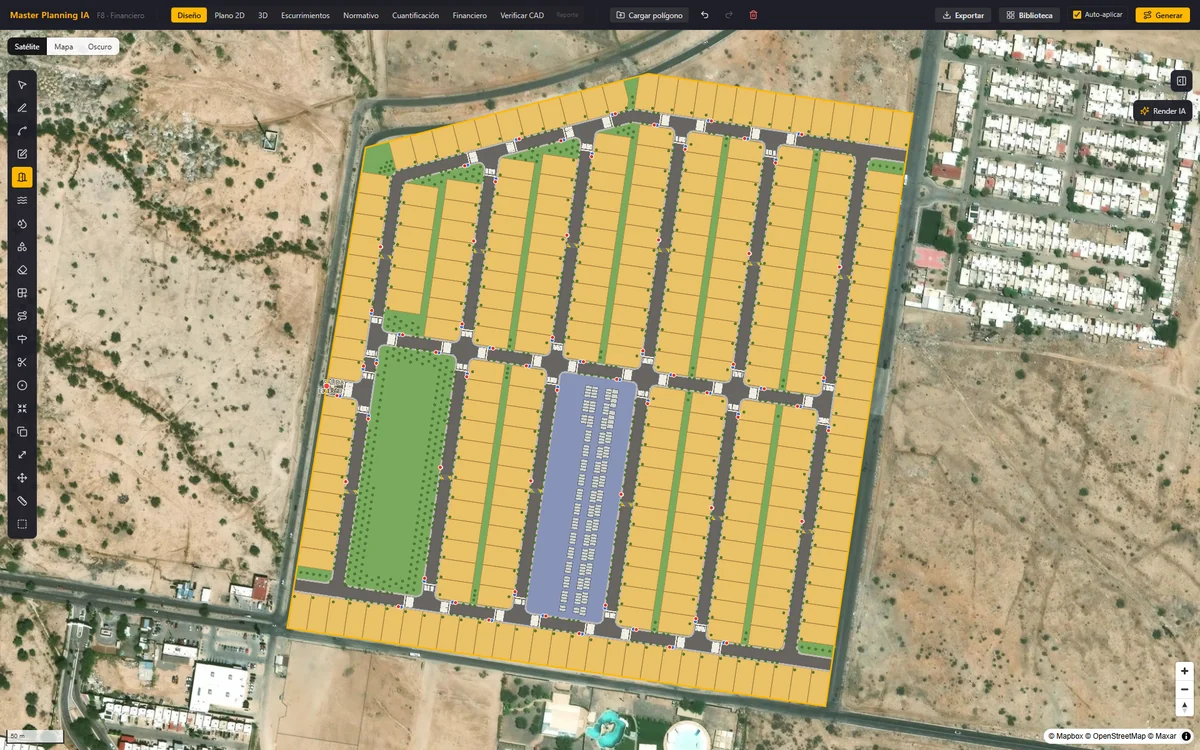
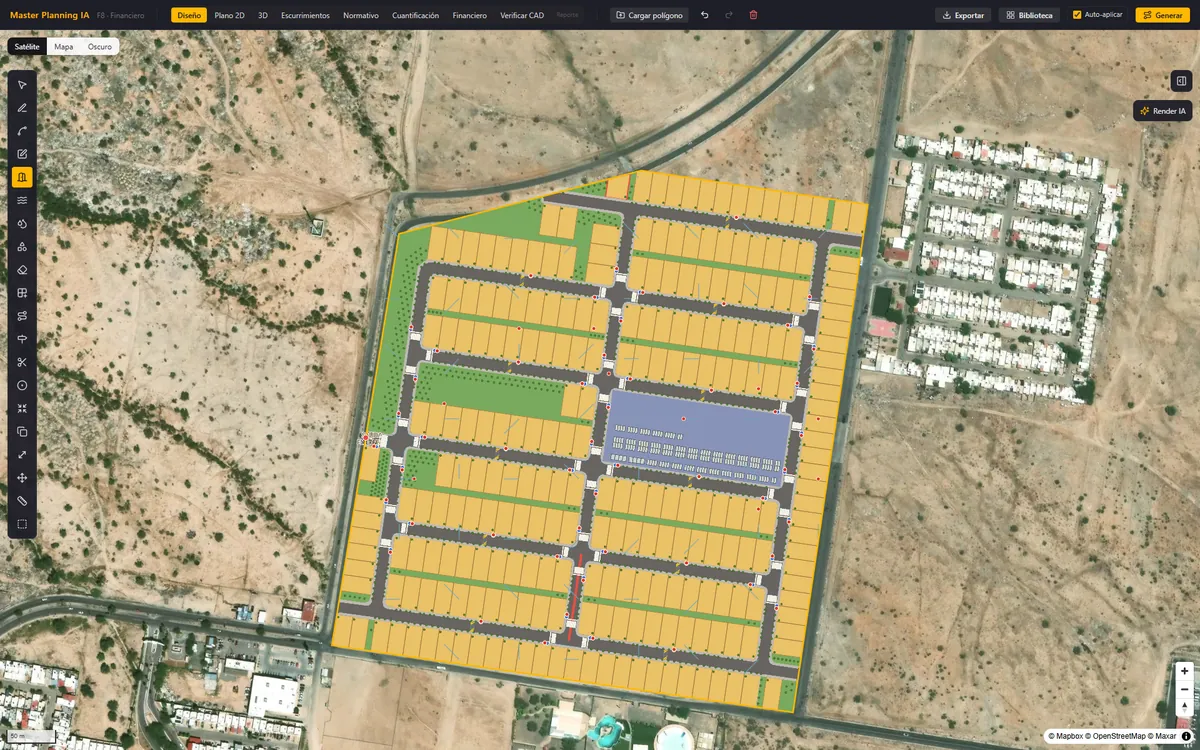
Hero: captura de la app con el plano de la muestra del 28-oct (253 lotes)
La imagen principal era del 12-oct (276 lotes, otra orientación de calles).
Ahora es la app mostrando el mismo escenario que la lámina L-01 y la
muestra del paquete comercial, con su pie de foto al día.

diff --git a/index.html b/index.html
@@ -687,12 +687,12 @@ dialog.legal-doc::backdrop{background:rgba(8,15,24,.62)}
         <img src="assets/producto/hero-plano-1920.webp"
              srcset="assets/producto/hero-plano-1200.webp 1200w, assets/producto/hero-plano-1920.webp 1920w"
              sizes="(max-width: 1240px) 100vw, 1120px" width="1920" height="1200" fetchpriority="high"
-             alt="Captura de la plataforma: condominio trazado sobre la imagen satelital de un predio de 22.6 hectáreas en Hermosillo, con calles, parques y equipamiento"
+             alt="Captura de la plataforma: condominio de 253 lotes trazado sobre la imagen satelital de un predio de 22.6 hectáreas en Hermosillo, con calles, parques y equipamiento"
              data-i18n-alt="hero.shot.alt">
       </div>
       <figcaption>
-        <span data-i18n-html="hero.shot.cap"><b>Captura real de la plataforma.</b> Predio de 22.6 ha en Hermosillo, Sonora, trazado en régimen de condominio sobre la imagen satelital.</span>
-        <span>12 oct 2026 · © Mapbox · © Maxar</span>
+        <span data-i18n-html="hero.shot.cap"><b>Captura real de la plataforma.</b> Predio de 22.6 ha en Hermosillo, Sonora: 253 lotes trazados en régimen de condominio sobre la imagen satelital.</span>
+        <span>28 oct 2026 · © Mapbox · © Maxar</span>
       </figcaption>
     </figure>
   </div>
@@ -1724,8 +1724,8 @@ var EN = {
 "band.s1":"ROU 2025 and PMDU 2023, by zone",
 "band.norm":"Code integrated",
 "band.aria":"Code integrated",
-"hero.shot.cap":"<b>Real screenshot of the platform.</b> 22.6 ha site in Hermosillo, Sonora, laid out as a private-street development over the satellite image.",
-"hero.shot.alt":"Screenshot of the platform: a private-street development laid out over the satellite image of a 22.6-hectare site in Hermosillo, with streets, parks and facilities",
+"hero.shot.cap":"<b>Real screenshot of the platform.</b> 22.6 ha site in Hermosillo, Sonora: 253 lots laid out as a private-street development over the satellite image.",
+"hero.shot.alt":"Screenshot of the platform: a 253-lot private-street development laid out over the satellite image of a 22.6-hectare site in Hermosillo, with streets, parks and facilities",
 "skip":"Skip to content",
 
 
